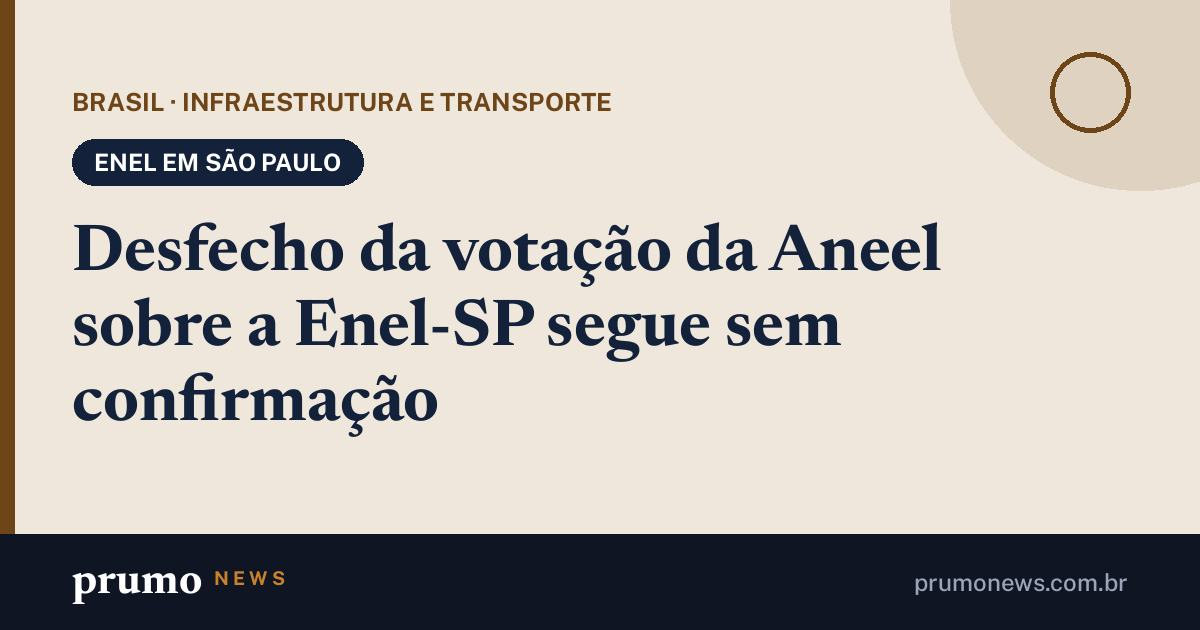
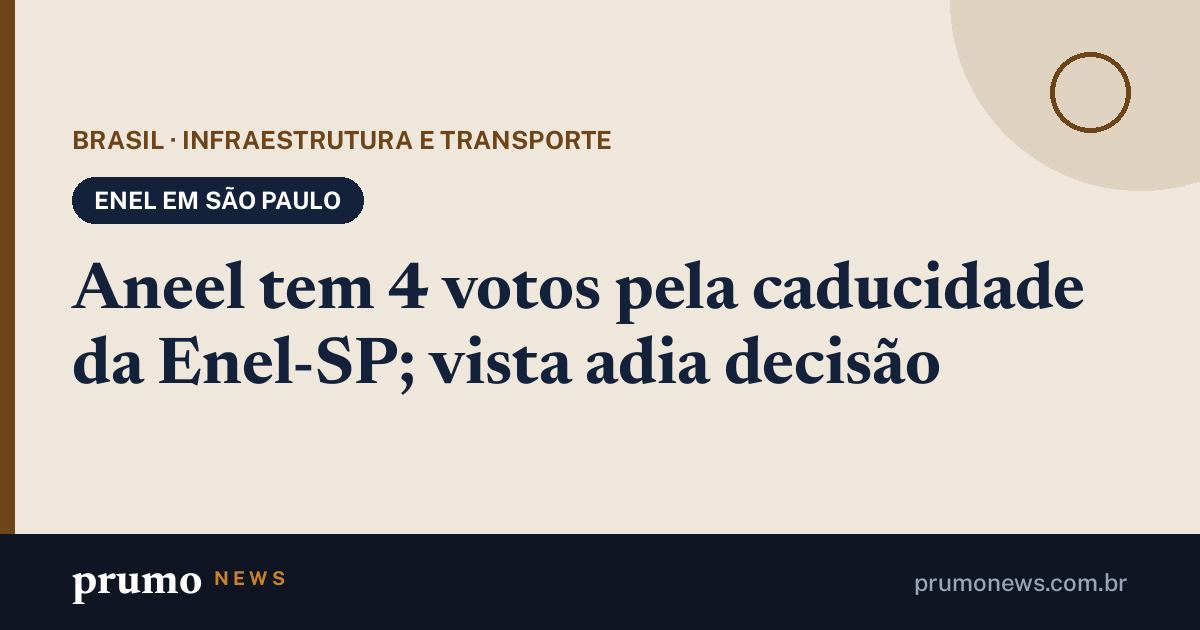
Páginas de compartilhamento 18/11 11h52

Changed region(s): [[0.0617, 0.1206, 0.925, 0.6937]]

diff --git a/m/eua-trump-xi-putin-apec-china.html b/m/eua-trump-xi-putin-apec-china.html
@@ -3,16 +3,16 @@
 <head>
 <meta charset="utf-8">
 <meta name="viewport" content="width=device-width, initial-scale=1">
-<title>Kremlin confirma encontro de Putin, Xi e Trump em Shenzhen na quinta (19) · Prumo News</title>
-<meta name="description" content="A Casa Branca põe na pauta a proliferação nuclear, o Irã e o comércio; o encontro é à margem da Apec, em Shenzhen, e a Ucrânia deve ficar de fora.">
-<link rel="canonical" href="https://prumonews.com.br/m/kremlin-confirma-encontro-de-putin-xi-e-trump-em-shenzhen-na-quinta-19.html">
+<title>Trump chega à China; Xi e Putin criticam protecionismo e sanções · Prumo News</title>
+<meta name="description" content="Os três se reúnem em Shenzhen na quinta (19); Xi promete reduzir tarifas e Putin diz que as sanções contra a Rússia tiveram efeito contrário.">
+<link rel="canonical" href="https://prumonews.com.br/m/trump-chega-a-china-xi-e-putin-criticam-protecionismo-e-sancoes.html">
 <meta property="og:type" content="article">
 <meta property="og:site_name" content="Prumo News">
 <meta property="og:locale" content="pt_BR">
-<meta property="og:title" content="Kremlin confirma encontro de Putin, Xi e Trump em Shenzhen na quinta (19)">
-<meta property="og:description" content="A Casa Branca põe na pauta a proliferação nuclear, o Irã e o comércio; o encontro é à margem da Apec, em Shenzhen, e a Ucrânia deve ficar de fora.">
-<meta property="og:url" content="https://prumonews.com.br/m/kremlin-confirma-encontro-de-putin-xi-e-trump-em-shenzhen-na-quinta-19.html">
-<meta property="og:image" content="https://prumonews.com.br/m/og/eua-trump-xi-putin-apec-china.jpg?v=e1b494cf77">
+<meta property="og:title" content="Trump chega à China; Xi e Putin criticam protecionismo e sanções">
+<meta property="og:description" content="Os três se reúnem em Shenzhen na quinta (19); Xi promete reduzir tarifas e Putin diz que as sanções contra a Rússia tiveram efeito contrário.">
+<meta property="og:url" content="https://prumonews.com.br/m/trump-chega-a-china-xi-e-putin-criticam-protecionismo-e-sancoes.html">
+<meta property="og:image" content="https://prumonews.com.br/m/og/eua-trump-xi-putin-apec-china.jpg?v=8644be8cc7">
 <meta property="og:image:width" content="1200">
 <meta property="og:image:height" content="630">
 <meta name="twitter:card" content="summary_large_image">
@@ -20,5 +20,5 @@
 <script>location.replace("/#m=eua-trump-xi-putin-apec-china")</script>
 <style>body{margin:0;font:16px/1.5 system-ui,sans-serif;background:#0f1522;color:#e8ecf2;display:grid;place-items:center;min-height:100vh;padding:24px;box-sizing:border-box;text-align:center}a{color:#e6b673}</style>
 </head>
-<body><p><a href="/#m=eua-trump-xi-putin-apec-china">Kremlin confirma encontro de Putin, Xi e Trump em Shenzhen na quinta (19)</a><br>Abrindo no Prumo News…</p></body>
+<body><p><a href="/#m=eua-trump-xi-putin-apec-china">Trump chega à China; Xi e Putin criticam protecionismo e sanções</a><br>Abrindo no Prumo News…</p></body>
 </html>

diff --git a/m/enel-sp-aneel-caducidade.html b/m/enel-sp-aneel-caducidade.html
@@ -3,16 +3,16 @@
 <head>
 <meta charset="utf-8">
 <meta name="viewport" content="width=device-width, initial-scale=1">
-<title>Desfecho da votação da Aneel sobre a Enel-SP segue sem confirmação · Prumo News</title>
-<meta name="description" content="A Enel atende cerca de 8,5 milhões de unidades consumidoras na capital e em 23 municípios; o ministério decide depois da Aneel.">
-<link rel="canonical" href="https://prumonews.com.br/m/desfecho-da-votacao-da-aneel-sobre-a-enel-sp-segue-sem-confirmacao.html">
+<title>Aneel tem 4 votos pela caducidade da Enel-SP; vista adia decisão · Prumo News</title>
+<meta name="description" content="O processo volta à pauta em até 60 dias; depois, a recomendação vai ao Ministério de Minas e Energia, que decide.">
+<link rel="canonical" href="https://prumonews.com.br/m/aneel-tem-4-votos-pela-caducidade-da-enel-sp-vista-adia-decisao.html">
 <meta property="og:type" content="article">
 <meta property="og:site_name" content="Prumo News">
 <meta property="og:locale" content="pt_BR">
-<meta property="og:title" content="Desfecho da votação da Aneel sobre a Enel-SP segue sem confirmação">
-<meta property="og:description" content="A Enel atende cerca de 8,5 milhões de unidades consumidoras na capital e em 23 municípios; o ministério decide depois da Aneel.">
-<meta property="og:url" content="https://prumonews.com.br/m/desfecho-da-votacao-da-aneel-sobre-a-enel-sp-segue-sem-confirmacao.html">
-<meta property="og:image" content="https://prumonews.com.br/m/og/enel-sp-aneel-caducidade.jpg?v=c86943f596">
+<meta property="og:title" content="Aneel tem 4 votos pela caducidade da Enel-SP; vista adia decisão">
+<meta property="og:description" content="O processo volta à pauta em até 60 dias; depois, a recomendação vai ao Ministério de Minas e Energia, que decide.">
+<meta property="og:url" content="https://prumonews.com.br/m/aneel-tem-4-votos-pela-caducidade-da-enel-sp-vista-adia-decisao.html">
+<meta property="og:image" content="https://prumonews.com.br/m/og/enel-sp-aneel-caducidade.jpg?v=dc0710f7ac">
 <meta property="og:image:width" content="1200">
 <meta property="og:image:height" content="630">
 <meta name="twitter:card" content="summary_large_image">
@@ -20,5 +20,5 @@
 <script>location.replace("/#m=enel-sp-aneel-caducidade")</script>
 <style>body{margin:0;font:16px/1.5 system-ui,sans-serif;background:#0f1522;color:#e8ecf2;display:grid;place-items:center;min-height:100vh;padding:24px;box-sizing:border-box;text-align:center}a{color:#e6b673}</style>
 </head>
-<body><p><a href="/#m=enel-sp-aneel-caducidade">Desfecho da votação da Aneel sobre a Enel-SP segue sem confirmação</a><br>Abrindo no Prumo News…</p></body>
+<body><p><a href="/#m=enel-sp-aneel-caducidade">Aneel tem 4 votos pela caducidade da Enel-SP; vista adia decisão</a><br>Abrindo no Prumo News…</p></body>
 </html>

diff --git a/m/trump-chega-a-china-xi-e-putin-criticam-protecionismo-e-sancoes.html b/m/trump-chega-a-china-xi-e-putin-criticam-protecionismo-e-sancoes.html
@@ -1,0 +1,24 @@
+<!doctype html>
+<html lang="pt-BR">
+<head>
+<meta charset="utf-8">
+<meta name="viewport" content="width=device-width, initial-scale=1">
+<title>Trump chega à China; Xi e Putin criticam protecionismo e sanções · Prumo News</title>
+<meta name="description" content="Os três se reúnem em Shenzhen na quinta (19); Xi promete reduzir tarifas e Putin diz que as sanções contra a Rússia tiveram efeito contrário.">
+<link rel="canonical" href="https://prumonews.com.br/m/trump-chega-a-china-xi-e-putin-criticam-protecionismo-e-sancoes.html">
+<meta property="og:type" content="article">
+<meta property="og:site_name" content="Prumo News">
+<meta property="og:locale" content="pt_BR">
+<meta property="og:title" content="Trump chega à China; Xi e Putin criticam protecionismo e sanções">
+<meta property="og:description" content="Os três se reúnem em Shenzhen na quinta (19); Xi promete reduzir tarifas e Putin diz que as sanções contra a Rússia tiveram efeito contrário.">
+<meta property="og:url" content="https://prumonews.com.br/m/trump-chega-a-china-xi-e-putin-criticam-protecionismo-e-sancoes.html">
+<meta property="og:image" content="https://prumonews.com.br/m/og/eua-trump-xi-putin-apec-china.jpg?v=8644be8cc7">
+<meta property="og:image:width" content="1200">
+<meta property="og:image:height" content="630">
+<meta name="twitter:card" content="summary_large_image">
+<meta name="theme-color" content="#0f1522">
+<script>location.replace("/#m=eua-trump-xi-putin-apec-china")</script>
+<style>body{margin:0;font:16px/1.5 system-ui,sans-serif;background:#0f1522;color:#e8ecf2;display:grid;place-items:center;min-height:100vh;padding:24px;box-sizing:border-box;text-align:center}a{color:#e6b673}</style>
+</head>
+<body><p><a href="/#m=eua-trump-xi-putin-apec-china">Trump chega à China; Xi e Putin criticam protecionismo e sanções</a><br>Abrindo no Prumo News…</p></body>
+</html>

diff --git a/m/aneel-tem-4-votos-pela-caducidade-da-enel-sp-vista-adia-decisao.html b/m/aneel-tem-4-votos-pela-caducidade-da-enel-sp-vista-adia-decisao.html
@@ -1,0 +1,24 @@
+<!doctype html>
+<html lang="pt-BR">
+<head>
+<meta charset="utf-8">
+<meta name="viewport" content="width=device-width, initial-scale=1">
+<title>Aneel tem 4 votos pela caducidade da Enel-SP; vista adia decisão · Prumo News</title>
+<meta name="description" content="O processo volta à pauta em até 60 dias; depois, a recomendação vai ao Ministério de Minas e Energia, que decide.">
+<link rel="canonical" href="https://prumonews.com.br/m/aneel-tem-4-votos-pela-caducidade-da-enel-sp-vista-adia-decisao.html">
+<meta property="og:type" content="article">
+<meta property="og:site_name" content="Prumo News">
+<meta property="og:locale" content="pt_BR">
+<meta property="og:title" content="Aneel tem 4 votos pela caducidade da Enel-SP; vista adia decisão">
+<meta property="og:description" content="O processo volta à pauta em até 60 dias; depois, a recomendação vai ao Ministério de Minas e Energia, que decide.">
+<meta property="og:url" content="https://prumonews.com.br/m/aneel-tem-4-votos-pela-caducidade-da-enel-sp-vista-adia-decisao.html">
+<meta property="og:image" content="https://prumonews.com.br/m/og/enel-sp-aneel-caducidade.jpg?v=dc0710f7ac">
+<meta property="og:image:width" content="1200">
+<meta property="og:image:height" content="630">
+<meta name="twitter:card" content="summary_large_image">
+<meta name="theme-color" content="#0f1522">
+<script>location.replace("/#m=enel-sp-aneel-caducidade")</script>
+<style>body{margin:0;font:16px/1.5 system-ui,sans-serif;background:#0f1522;color:#e8ecf2;display:grid;place-items:center;min-height:100vh;padding:24px;box-sizing:border-box;text-align:center}a{color:#e6b673}</style>
+</head>
+<body><p><a href="/#m=enel-sp-aneel-caducidade">Aneel tem 4 votos pela caducidade da Enel-SP; vista adia decisão</a><br>Abrindo no Prumo News…</p></body>
+</html>
